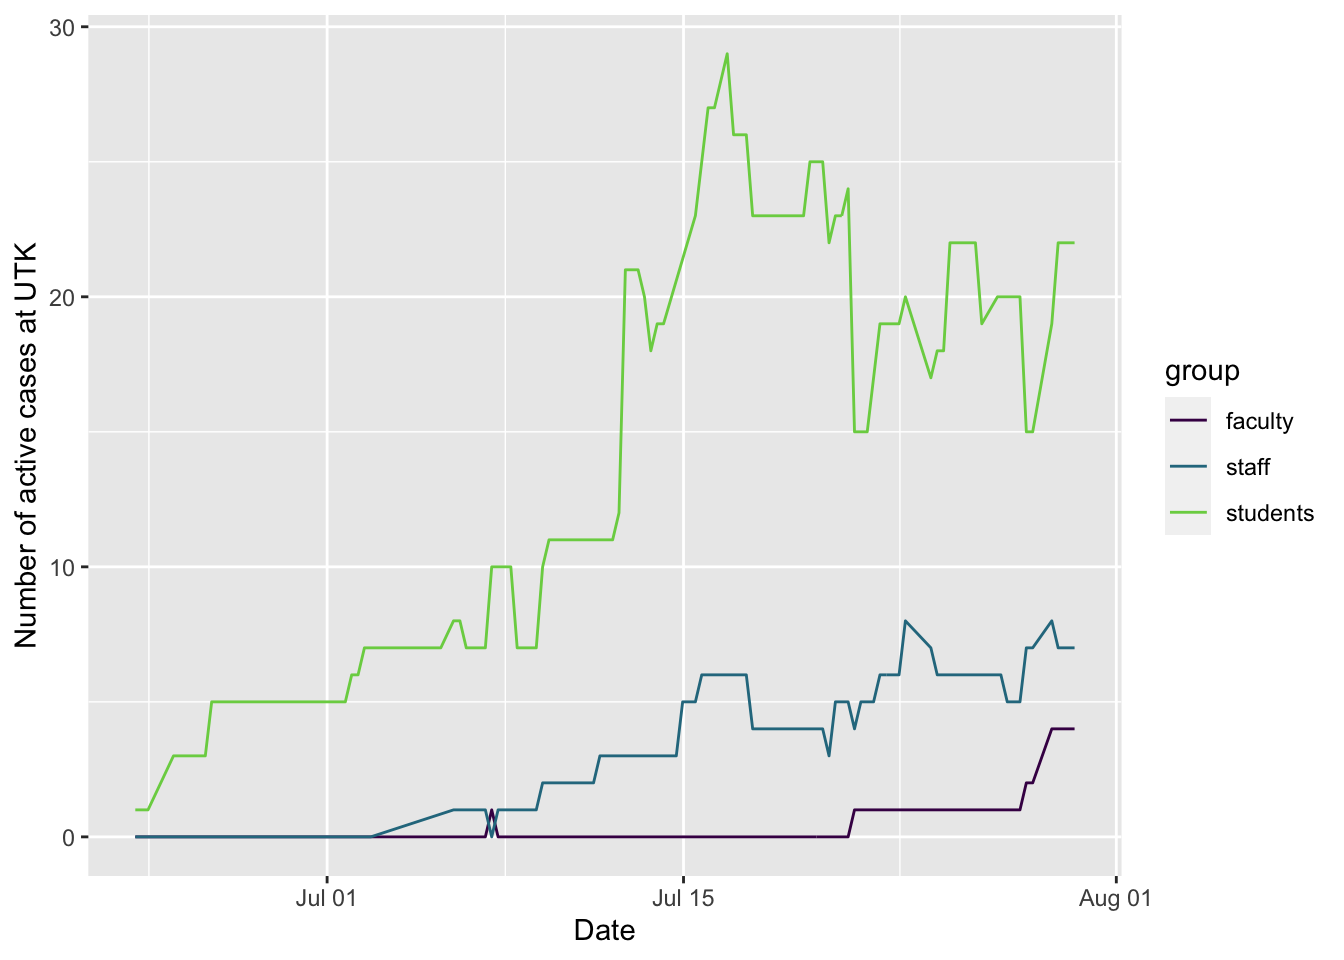
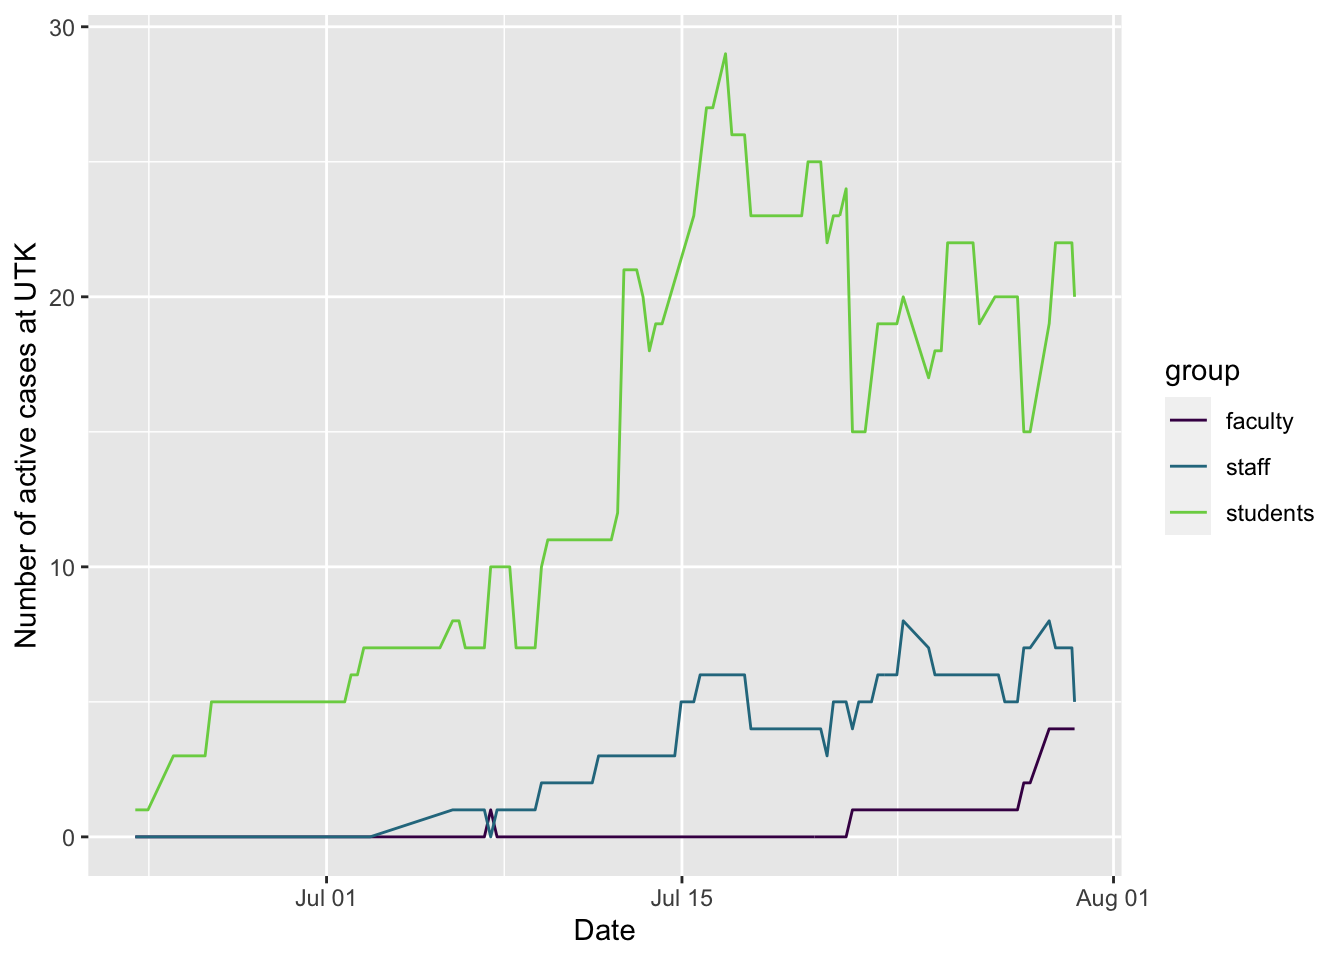
updating site

diff --git a/docs/covid.html b/docs/covid.html
@@ -423,7 +423,7 @@ $(document).ready(function () {
 <li>Info about cases at <a href="#ut">U. of Tennessee, Knoxville</a> (using public information only)</li>
 <li><a href="#webcams">Webcams</a> showing activity at local sites, though not quite at the resolution to point to mask usage or not</li>
 </ul>
-<p>The following plots are created in R using data from <a href="https://covid19datahub.io" class="uri">https://covid19datahub.io</a> (Guidotti, E., Ardia, D., (2020), “COVID-19 Data Hub”, Working paper, doi: 10.13140/RG.2.2.11649.81763), as well as information from Google and the <a href="https://www.tn.gov/health/cedep/ncov/data/downloadable-datasets.html">state of Tennessee dataset page</a> and plotting and analysis using the <code>forecast</code>, <code>ggplot2</code>, <code>reshape2</code>, and <code>dplyr</code> packages. It also uses the <a href="https://github.com/mtna/rds-r">rds-r</a> package from <a href="https://www.richdataservices.com/" class="uri">https://www.richdataservices.com/</a>. Plots created on 2020-07-30 08:39:44. I use <code>ggplot2</code>’s <code>geom_smooth()</code> function for the smoothed regression plots with its default formula, which uses loess smoothing for this many points. This is not based on a model of disease spread or anything similarly sophisticated, just drawing a smooth curve to summarize noisy points (see <a href="https://www.itl.nist.gov/div898/handbook/pmd/section1/pmd144.htm">here</a> for more details).</p>
+<p>The following plots are created in R using data from <a href="https://covid19datahub.io" class="uri">https://covid19datahub.io</a> (Guidotti, E., Ardia, D., (2020), “COVID-19 Data Hub”, Working paper, doi: 10.13140/RG.2.2.11649.81763), as well as information from Google and the <a href="https://www.tn.gov/health/cedep/ncov/data/downloadable-datasets.html">state of Tennessee dataset page</a> and plotting and analysis using the <code>forecast</code>, <code>ggplot2</code>, <code>reshape2</code>, and <code>dplyr</code> packages. It also uses the <a href="https://github.com/mtna/rds-r">rds-r</a> package from <a href="https://www.richdataservices.com/" class="uri">https://www.richdataservices.com/</a>. Plots created on 2020-07-30 12:26:39. I use <code>ggplot2</code>’s <code>geom_smooth()</code> function for the smoothed regression plots with its default formula, which uses loess smoothing for this many points. This is not based on a model of disease spread or anything similarly sophisticated, just drawing a smooth curve to summarize noisy points (see <a href="https://www.itl.nist.gov/div898/handbook/pmd/section1/pmd144.htm">here</a> for more details).</p>
 <h2 id="cases">
 Cases
 </h2>
